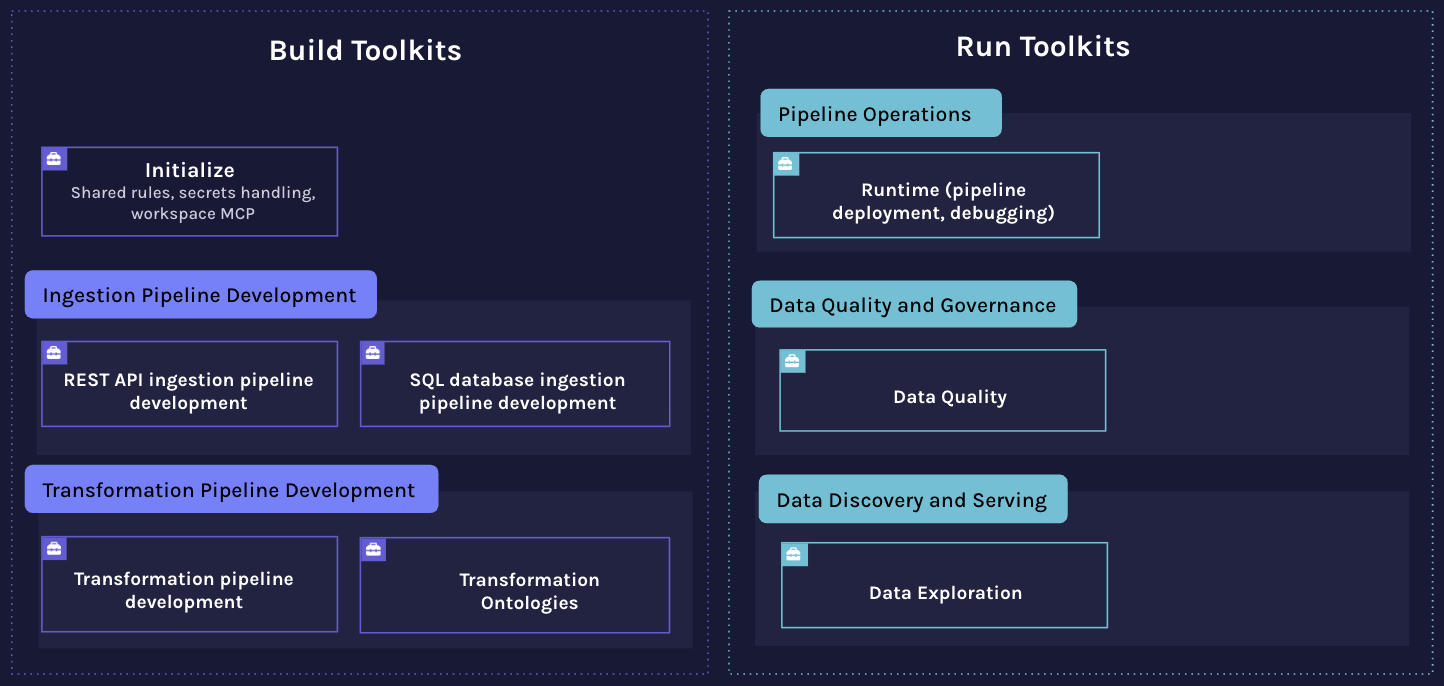
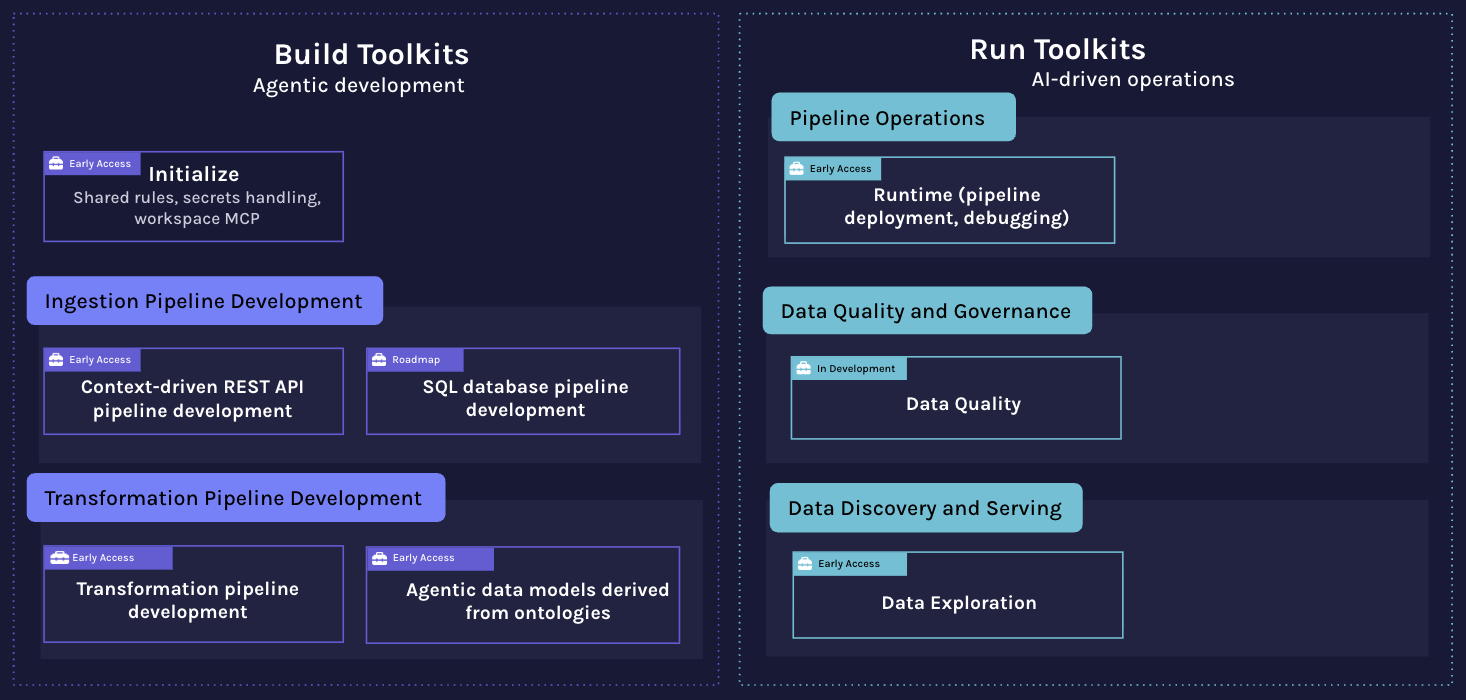
Readme add context (#17)
* add dont touch secrets to claude.md

* add EVALS.md to gitingore

* move improve-skills from rest-api to init

* add more info about context tools to readme

* add new workbench components image

* make reamde shorter

* update workbench image

* readme polishing

* make improve-skill more generic

* fix reference

* add instruction to validate verified source contains data that the user needs, see bug28

* readme cleanup

* move security hint from claude.md to agents.md

---------

diff --git a/README.md b/README.md
@@ -1,16 +1,20 @@
 # dltHub AI Workbench
 
-**dlt** (data load tool) is an open-source Python library for loading data from APIs and databases into a warehouse or lakehouse. **dltHub** (paid platform) extends dlt with enterprise-grade features: transformations, data quality validation, managed runtime infrastructure, managed data apps, and an AI-powered workspace environment.
+**dlt** (data load tool) is an open-source Python library for loading data from APIs and databases into a warehouse or lakehouse. **dltHub** (paid platform) extends dlt with enterprise-grade features tailored to the needs of coding agents: transformations, data quality validation, managed runtime infrastructure, managed data apps, and an AI-powered workspace environment.
 
-The **dltHub AI Workbench** is a collection of toolkits that give AI coding assistants the knowledge and step-by-step workflows to build data pipelines with dlt. Each toolkit covers a specific phase of the data engineering lifecycle — ingesting from a REST API, exploring loaded data, or deploying to dltHub — and guides the assistant through it in a defined sequence. You can use the workbench as-is or fork and customize it for your own stack. The **dlt ai CLI** builds the bridge between the workbench and your coding assistant by handling the installation of toolkit components into the right locations for your assistant, and by running the MCP server that the assistant uses during a session.
+![AI Workbench Components](images/ai_workbench_components.png)
+
+The **dltHub AI Workbench** is a collection of toolkits that give AI coding assistants step-by-step workflows to build data pipelines with dlt. You can use the workbench as-is or fork and customize it for your own stack. The **dlt ai CLI** installs toolkit components into the right locations for your assistant and runs the workspace MCP server.
+
+**Build** toolkits cover ingestion (REST API, SQL), transformation, and data quality; **Run** toolkits handle deployment and exploration. The REST API toolkit is backed by the [dltHub context](https://dlthub.com/context) — over 9,700 source definitions the agent queries to find verified connectors before writing code.
 
 The dltHub AI Workbench is tested with **Claude Code**, **Cursor**, and **Codex** and may work with other AI coding assistants. We recommend workings in `accept edits` (Claude) / `--approval-mode` (Codex) mode to review the changes and familiarizing with dlthub AI workflows when getting started with the dlthub AI workbench.
 
 ## The dlthub AI workbench supports the iterative data engineering workflow
 
-Building data pipelines is iterative and covers two major phases — **ingestion** and **transformation** — each following the same inner loop:
+Building data pipelines is iterative and covers two major phases — ingestion and transformations — each following the same inner loop:
 
-**Build loop (local development)**
+**Build (local development)**
 - Develop the pipeline iteratively — for ingestion: first REST API endpoint, then additional endpoints; for transformation: data model first, then the full transformation pipeline
 - Explore the loaded data and validate it after each step
 - Loop back to refine until the pipeline is solid
@@ -23,7 +27,7 @@ The outer loop connects the two phases: insights from the transformation and ser
 
 ![Data Development Lifecycle](images/data_development_lifecycle.png)
 
-## The AI Workbench
+## dltHub AI Workbench Toolkits
 
 The workbench gives your coding assistant **toolkits** — that contain a structured, guided workflow for a specific phase. Instead of generating ad-hoc code, the assistant follows a defined sequence of steps from start to finish. 
 
@@ -33,7 +37,7 @@ All toolkits depend on `init` for shared rules, secrets handling, and the MCP se
 
 ![AI Workbench](images/ai_workbench.png)
 
-### Workbench components
+### Toolkit components
 
 | Component | What it is | When it runs |
 |-----------|-----------|-------------|
@@ -42,7 +46,16 @@ All toolkits depend on `init` for shared rules, secrets handling, and the MCP se
 | **Rule** | Always-on context (conventions, constraints) | Every session, automatically |
 | **Workflow** | Ordered sequence of skills with a fixed entry point | Loaded as a rule — always active |
 | **MCP server** | Exposes pipelines, tables, and secrets as tools | During a session, via MCP protocol |
+| **[dltHub context](https://dlthub.com/context)** | 9,700+ REST API source definitions with verified connectors and pipeline patterns | During source discovery, via `search_dlthub_sources` |
 
+
+### MCP tools
+
+Two MCP servers give the agent structured context throughout the workflow to avoid the need for manual copy-pasting.
+
+**dlt-workspace-mcp** (local, installed by `dlt ai init`) exposes: data inspection tools (`list_tables`, `preview_table`, `execute_sql_query`, `get_row_counts`, `display_schema`, `get_local_pipeline_state`), secrets tools (`secrets_view_redacted`, `secrets_update_fragment`), and toolkit discovery (`list_toolkits`, `toolkit_info`).
+
+**[dltHub context](https://dlthub.com/context)** (remote) provides `search_dlthub_sources` — used by the `find-source` skill to search 9,700+ REST API source definitions and return verified connectors with reference links before writing code.
 
 ### Available toolkits
 
@@ -182,7 +195,7 @@ uv run dlt ai mcp run --stdio               # run in stdio mode (for assistants 
 uv run dlt ai mcp install                   # register the MCP server in the agent's config
 ```
 
-The MCP server allows the assistant to answer questions like "what tables were loaded?" or "show me the last pipeline trace" without you having to copy-paste output into the chat.
+The MCP server allows the assistant to answer questions like "what tables were loaded?" or "show me the schema" without you having to copy-paste output into the chat.
 
 ## License
 

diff --git a/workbench/init/skills/improve-skills/SKILL.md b/workbench/init/skills/improve-skills/SKILL.md
@@ -1,6 +1,6 @@
 ---
 name: improve-skills
-description: Improve existing skills based on the current session. Use at the end of a session (or when the user asks) to capture new debugging patterns, data validation tricks, querying techniques, doc references, or workflow improvements learned during the session. Keeps skills lean and personalized.
+description: Improve existing skills based on the current session. Use at the end of a session (or when the user asks) to capture new debugging patterns, data issues, data validation tracks, querying techniques, doc references, or workflow improvements learned during the session. Keeps skills lean and personalized.
 ---
 
 # Improve skills from session
@@ -20,32 +20,33 @@ Review the current session and update skills with essential learnings. Skills ar
 
 ### 1. Scan the session for learnings
 
-Review the conversation looking for:
+First identify which skills are active in the current toolkit — check the installed skills directory or use the `toolkit_info` MCP tool. Then review the conversation for:
 
-**Debugging patterns** (`debug-pipeline`):
-- New error types and their root causes
-- Diagnostic commands that were useful
-- Config settings that helped (e.g., verbosity, timeouts)
-- Workarounds for specific API behaviors
+**Errors and debugging**:
+- New error types, root causes, and the commands or MCP tools that diagnosed them
+- Config settings that helped (e.g., verbosity, timeouts, flags)
+- Workarounds for API, source, or destination-specific behaviors
 
-**Data validation** (`validate-data`):
-- New data type issues (e.g., money as float → Decimal)
-- Schema surprises (unexpected nesting, missing columns)
-- processing_steps patterns that worked
+**Data and schema**:
+- Unexpected data types or coercions needed
+- Schema surprises (nesting, missing columns, naming conventions)
+- Processing patterns that worked
 
-**Data access** (`view-data`):
-- ibis gotchas (e.g., `.distinct()` is table-level, deferred refs in mutate)
-- New ReadableRelation or dataset API usage
+**Data access and querying**:
+- Library-specific gotchas (e.g., ibis, dlt dataset API)
+- Useful query patterns or MCP tool calls
 
-**Pipeline creation** (`create-rest-api-pipeline`, `new-endpoint`):
-- API-specific auth or pagination quirks
+**Source and pipeline configuration**:
+- Auth, pagination, or rate-limit quirks
 - Config resolution surprises
 - Source/resource parameterization patterns
 
-**Workflow** (`workflow.md`):
+**Workflow**:
 - Missing cross-references between skills
 - New skills that should be in the workflow
 - Steps that are in the wrong order
+
+Map each learning to the most relevant skill in the active toolkit.
 
 ### 2. Read the target skills
 
@@ -61,13 +62,13 @@ Present a summary of proposed updates:
 ```
 Proposed skill updates:
 
-debug-pipeline:
+<skill-name>:
   + [section] Added: <brief description>
 
-validate-data:
+<skill-name>:
   (no changes)
 
-query-data:
+<skill-name>:
   + [section] Added: <brief description>
 ```
 

diff --git a/CLAUDE.md b/CLAUDE.md
@@ -21,6 +21,8 @@ tools/                             # Dev tooling
 Makefile                           # make validate-toolkits
 ```
 
+
+
 ## Toolkit conventions
 
 Every toolkit under `workbench/` must be listed in `marketplace.json`.
@@ -86,7 +88,7 @@ Checks: marketplace ↔ plugin.json name consistency, skill frontmatter, rule fo
 ### Maintenance skills
 - `/rename-component <toolkit:old-name> <new-name>` — rename a skill, command, or rule and update all cross-references within the toolkit.
 - `/validate-toolkits <toolkit-path>` — deep-validate a toolkit: check external doc URLs are live, cross-references resolve, and fix what can be fixed.
-- `improve-skills` (per-toolkit, in rest-api-pipeline) — capture session learnings back into skills. Run at the end of a session.
+- `improve-skills` (in `init`) — capture session learnings back into skills. Run at the end of a session.
 
 ### Helper scripts
 - `uv run python tools/extract_refs.py workbench/<toolkit>` — extract component map and external URLs for a toolkit.

diff --git a/workbench/rest-api-pipeline/skills/find-source/SKILL.md b/workbench/rest-api-pipeline/skills/find-source/SKILL.md
@@ -30,11 +30,11 @@ If the request looks like a specific API/service name, run:
 ```
 dlt --non-interactive init --list-sources
 ```
-Search the output (case-insensitive) for the source name. If found, skip to **step 5**
+Search the output (case-insensitive) for the source name. If found, ensure that the verified source contains the data that the user needs (ask the user explicitly) skip to **step 5**
 
 ### 3. Search dlthub context
 
-Use `search_dlthub_sources` mcp tool to look for sources. It is FTS based so pass only essential keywords to it
+Use `search_dlthub_sources` mcp tool to look for sources. It is full-text search based so pass only essential keywords to it
 ie. "claude analytics". You'll get description of the source and set of reference links to use in web search below.
 
 ### 4. Web search and validation

diff --git a/workbench/init/AGENTS.md b/workbench/init/AGENTS.md
@@ -1,2 +1,5 @@
 ## ALWAYS ACTIVATE those skills
 they are essential for ANY work in this project
+
+## Security
+CRITICAL: never ask for credentials in chat. Always let the user edit secrets directly and do not attempt to read them.
